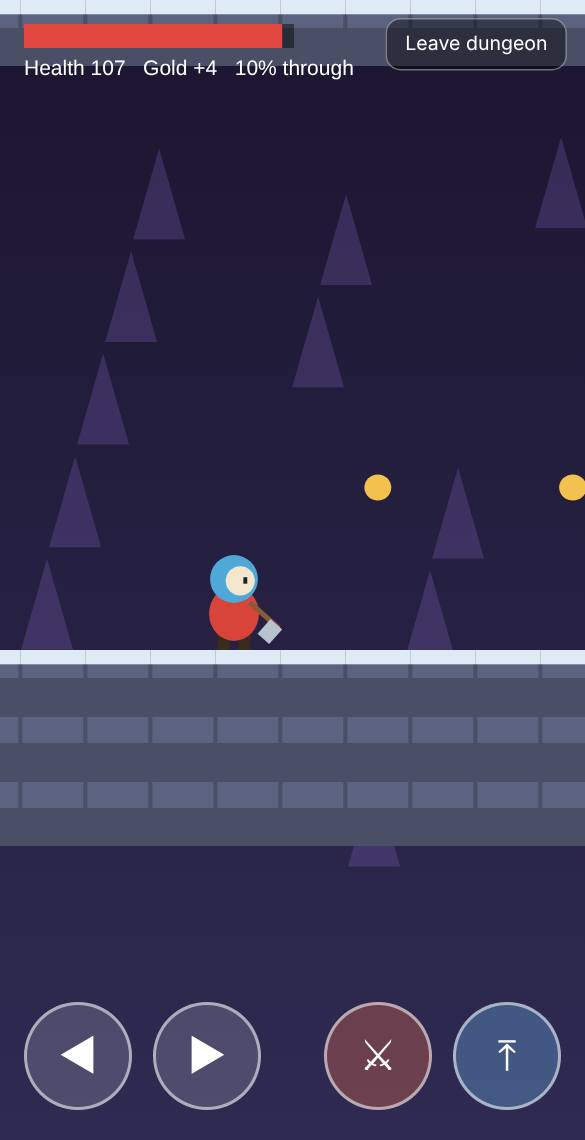
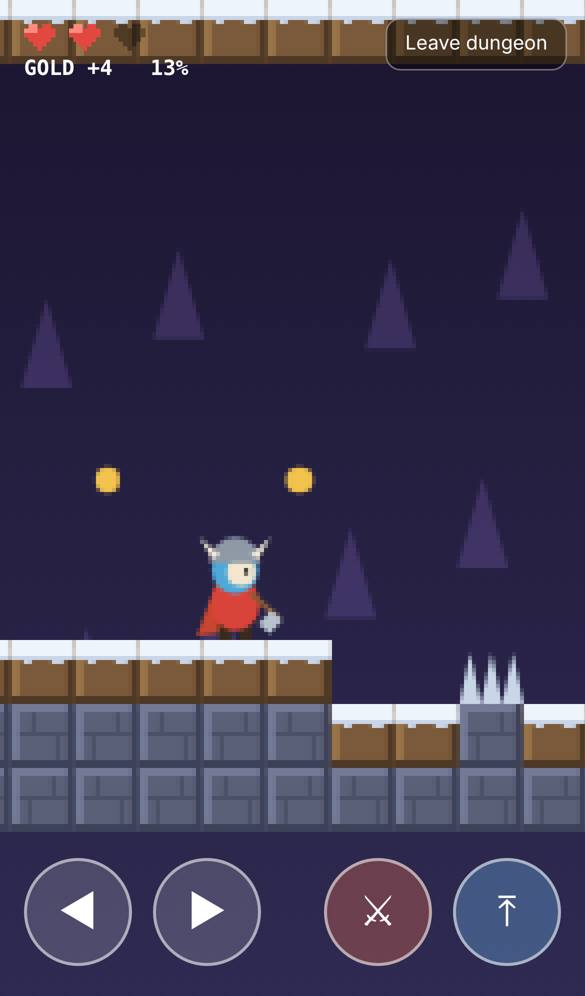
Dungeons: three hearts and a pixel-block art style
Claude-Session: https://claude.ai/code/session_01B1L5Cqk9pSHD4f4xTSZniZ

diff --git a/index.html b/index.html
@@ -1520,7 +1520,7 @@ function genLevel(d) {
 function enterDungeon(i) {
   const d = DUNGEONS[i]; if (!d || DUN) return;
   const L = genLevel(d);
-  DUN = { d, L, x: 2, y: 4, vx: 0, vy: 0, w: 0.8, h: 1.4, face: 1, ground: false, inv: 1, atk: 0, swing: 0, rcd: 0, shots: [], gold: 0, safeX: 2, t: 0 };
+  DUN = { hearts: 3, d, L, x: 2, y: 4, vx: 0, vy: 0, w: 0.8, h: 1.4, face: 1, ground: false, inv: 1, atk: 0, swing: 0, rcd: 0, shots: [], gold: 0, safeX: 2, t: 0 };
   $('dun').hidden = false; resizeDun(); play('horn');
   banner('Dungeon ' + '★'.repeat(d.tier), true, 'Reach the chest at the far end');
 }
@@ -1535,8 +1535,8 @@ function leaveDungeon(won) {
 }
 const solidAt = (L, x, y) => { const ix = Math.floor(x), iy = Math.floor(y); if (ix < 0 || ix >= L.W || iy < 0) return 1; if (iy >= L.H) return 0; return L.t[iy * L.W + ix]; };
 function hurtDun(dmg) {
-  const D = DUN; if (D.inv > 0) return; D.inv = 1.1; S.hp -= dmg * (1 - (S.armorLv >= 0 ? ARMORS[S.armorLv].a : 0)); play('hurt'); D.vy = -9; D.vx = -D.face * 6;
-  if (S.hp <= 0) leaveDungeon(false);
+  const D = DUN; if (D.inv > 0) return; D.inv = 1.2; D.hearts--; D.heartFx = 0.5; play('hurt'); D.vy = -9; D.vx = -D.face * 6;   // three hearts: every hit costs one
+  if (D.hearts <= 0) leaveDungeon(false);
 }
 function dunHit(e, dmg) {
   e.hp -= dmg; e.hurt = 0.2; play('hit');
@@ -1605,7 +1605,7 @@ function dungeonStep(dt) {
   }
   for (const c of L.coins) if (!c.got && Math.abs(c.x - D.x) < 0.7 && Math.abs(c.y - (D.y - D.h / 2)) < 1) { c.got = true; D_gold(1); play('coin'); }
   if (Math.abs(L.chest.x + 0.5 - D.x) < 1 && Math.abs(L.chest.y - D.y) < 1.5) { leaveDungeon(true); return; }
-  if (S.hp < heroMax() && D.inv < -3) S.hp = Math.min(heroMax(), S.hp + 2 * dt);
+  D.heartFx = Math.max(0, (D.heartFx || 0) - dt);
   drawDungeon();
 }
 /* ---- drawing ---- */
@@ -1632,7 +1632,10 @@ function drawHero(c, x, y, T, face, swing) {
   c.restore();
 }
 function drawDungeon() {
-  const D = DUN, L = D.L, cv = dunCv(), c = cv.getContext('2d'), W = cv.width, H = cv.height, T = Math.min(H / 11, W / 9);
+  const D = DUN, L = D.L, main = dunCv(), mc = main.getContext('2d');
+  const PX = Math.max(2, Math.round(Math.min(main.height / 11, main.width / 9) / 16)), buf = drawDungeon.buf || (drawDungeon.buf = document.createElement('canvas'));
+  if (buf.width !== Math.ceil(main.width / PX) || buf.height !== Math.ceil(main.height / PX)) { buf.width = Math.ceil(main.width / PX); buf.height = Math.ceil(main.height / PX); }
+  const cv = buf, c = buf.getContext('2d'), W = cv.width, H = cv.height, T = 16;
   const camX = Math.max(0, Math.min(L.W * T - W, D.x * T - W * 0.4)), camY = Math.max(0, Math.min(L.H * T - H, (D.y - 4) * T - H * 0.45));
   const g = c.createLinearGradient(0, 0, 0, H); g.addColorStop(0, '#1b1530'); g.addColorStop(1, '#2f2a52'); c.fillStyle = g; c.fillRect(0, 0, W, H);
   c.fillStyle = 'rgba(180,140,255,0.18)'; for (let i = 0; i < 18; i++) { const px = ((i * 271 - camX * 0.3) % (W + 200) + W + 200) % (W + 200) - 100, py = H * (0.2 + (i * 37 % 60) / 100); c.beginPath(); c.moveTo(px, py); c.lineTo(px + T * 0.4, py - T * 1.4); c.lineTo(px + T * 0.8, py); c.fill(); }
@@ -1640,8 +1643,12 @@ function drawDungeon() {
   const x0 = Math.max(0, Math.floor(camX / T)), x1 = Math.min(L.W, Math.ceil((camX + W) / T) + 1);
   for (let y = 0; y < L.H; y++) for (let x = x0; x < x1; x++) {
     const v = L.t[y * L.W + x]; if (!v) continue;
-    if (v === 1) { c.fillStyle = '#4a4f66'; c.fillRect(x * T, y * T, T + 1, T + 1); c.fillStyle = '#5c6380'; c.fillRect(x * T + 2, y * T + 2, T - 4, T * 0.4);
-      if (!L.t[(y - 1) * L.W + x]) { c.fillStyle = '#dfeaf7'; c.fillRect(x * T, y * T, T + 1, T * 0.22); } }
+    if (v === 1) { const X = x * T, Y = y * T, top = !L.t[(y - 1) * L.W + x];   // a chunky block: light top-left edge, dark bottom-right, a brick seam
+      c.fillStyle = top ? '#7a5a3a' : '#5a6078'; c.fillRect(X, Y, T, T);
+      c.fillStyle = top ? '#9a7448' : '#737a96'; c.fillRect(X, Y, T, 2); c.fillRect(X, Y, 2, T);
+      c.fillStyle = top ? '#4e3826' : '#3e4258'; c.fillRect(X, Y + T - 2, T, 2); c.fillRect(X + T - 2, Y, 2, T);
+      if (!top) { c.fillStyle = '#4a5068'; c.fillRect(X + 2, Y + 7, T - 4, 1); c.fillRect(X + ((x + y) % 2 ? 5 : 10), Y + 2, 1, 5); c.fillRect(X + ((x + y) % 2 ? 11 : 4), Y + 8, 1, 6); }
+      if (top) { c.fillStyle = '#eef4fb'; c.fillRect(X, Y, T, 4); c.fillStyle = '#c9d6e8'; c.fillRect(X, Y + 4, T, 1); c.fillRect(X + 3, Y + 5, 2, 1); c.fillRect(X + 10, Y + 5, 3, 1); } }
     else { c.fillStyle = '#c9d6e8'; for (let k = 0; k < 3; k++) { c.beginPath(); c.moveTo(x * T + k * T / 3, (y + 1) * T); c.lineTo(x * T + k * T / 3 + T / 6, y * T + T * 0.2); c.lineTo(x * T + (k + 1) * T / 3, (y + 1) * T); c.fill(); } }
   }
   for (const co of L.coins) if (!co.got) { c.fillStyle = '#f2c14e'; c.beginPath(); c.ellipse(co.x * T, co.y * T, T * 0.18 * Math.abs(Math.cos(D.t * 3 + co.x)) + 2, T * 0.2, 0, 0, TAU); c.fill(); }
@@ -1659,10 +1666,13 @@ function drawDungeon() {
   for (const s of D.shots) { const col = { arrow: '#f5f0e6', bullet: '#ffe08a', frost: '#9fe8ff', fire: '#ff7a3d', storm: '#cfe8ff' }[s.kind]; c.fillStyle = col; if (s.kind === 'arrow' || s.kind === 'bullet') c.fillRect(s.x * T - T * 0.25, s.y * T - 2, T * 0.5, 4); else { c.beginPath(); c.arc(s.x * T, s.y * T, T * 0.18, 0, TAU); c.fill(); c.globalAlpha = 0.4; c.beginPath(); c.arc(s.x * T - Math.sign(s.vx) * T * 0.3, s.y * T, T * 0.12, 0, TAU); c.fill(); c.globalAlpha = 1; } }
   if (!(D.inv > 0 && (D.t * 12 | 0) % 2)) drawHero(c, D.x * T, D.y * T, T, D.face, D.swing);
   c.restore();
-  // health and gold
-  const r = devicePixelRatio || 1, bw = 180 * r;
-  c.fillStyle = 'rgba(0,0,0,.45)'; c.fillRect(16 * r, 16 * r, bw, 16 * r); c.fillStyle = '#e2483f'; c.fillRect(16 * r, 16 * r, bw * Math.max(0, S.hp / heroMax()), 16 * r);
-  c.fillStyle = '#fff'; c.font = (14 * r) + 'px sans-serif'; c.fillText('Health ' + Math.max(0, Math.round(S.hp)) + '   Gold +' + D.gold + '   ' + Math.round(D.x / L.W * 100) + '% through', 16 * r, 50 * r);
+  mc.imageSmoothingEnabled = false; mc.drawImage(buf, 0, 0, buf.width * PX, buf.height * PX);
+  // three pixel hearts, then gold and progress
+  const r = devicePixelRatio || 1, hp = 3 * r, HEART = ['.XX.XX.', 'XXXXXXX', 'XXXXXXX', '.XXXXX.', '..XXX..', '...X...'];
+  for (let i = 0; i < 3; i++) { const full = i < D.hearts, ox = (16 + i * 30) * r, oy = 16 * r + (!full && i === D.hearts && D.heartFx > 0 ? -D.heartFx * 10 * r : 0);
+    HEART.forEach((row, yy) => [...row].forEach((ch, xx) => { if (ch !== 'X') return; mc.fillStyle = full ? (yy < 2 && xx < 3 ? '#ff8a80' : '#e2483f') : 'rgba(0,0,0,.35)'; mc.fillRect(ox + xx * hp, oy + yy * hp, hp, hp); }));
+    mc.strokeStyle = 'rgba(255,255,255,.7)'; mc.lineWidth = r; }
+  mc.fillStyle = '#fff'; mc.font = 'bold ' + (14 * r) + 'px monospace'; mc.fillText('GOLD +' + D.gold + '   ' + Math.round(D.x / L.W * 100) + '%', 16 * r, 50 * r);
 }
 ['dunL', 'dunR', 'dunJ', 'dunA'].forEach((id, k) => { const key = ['l', 'r', 'jump', 'atk'][k], el = $(id);
   const on = e => { e.preventDefault(); e.stopPropagation(); dunKeys[key] = true; }, off = e => { e.preventDefault(); e.stopPropagation(); dunKeys[key] = false; };

diff --git a/README.md b/README.md
@@ -112,7 +112,7 @@ The Town Hall offers one quest at a time (the Quest card): hunt animals, collect
 ## Dungeons
 ![A dungeon entrance](assets/help/dungeon_door.jpg)
 ![Inside a dungeon](assets/help/dungeon.jpg)
-Twelve cave entrances lie 200–315 m out (purple squares on the minimap). Tap **Enter dungeon** to play a 2D side-scrolling level: run, jump over pits and ice spikes, stomp or axe slimes, skeletons and bats, and reach the chest at the end. Your health, gear and looks come with you. Controls: on-screen arrows, attack and jump buttons (or A/D, W/Space, J). Win for a treasure chest; fall in battle and you're back at the entrance. A cleared dungeon refills after two days.
+Twelve cave entrances lie 200–315 m out (purple squares on the minimap). Tap **Enter dungeon** to play a 2D side-scrolling level: run, jump over pits and ice spikes, stomp or axe slimes, skeletons and bats, and reach the chest at the end. Dungeons are drawn in a chunky pixel-block style. You have **three hearts** (top left): every hit, spike or fall costs one, and losing all three sends you back to the entrance. Your gear and looks come with you. Controls: on-screen arrows, attack and jump buttons (or A/D, W/Space, J). Reach the chest for a treasure chest. A cleared dungeon refills after two days.
 
 ## Knockouts and revives
 - You respawn at the Town Hall a few seconds after being knocked out; your pack spills where you fell.
